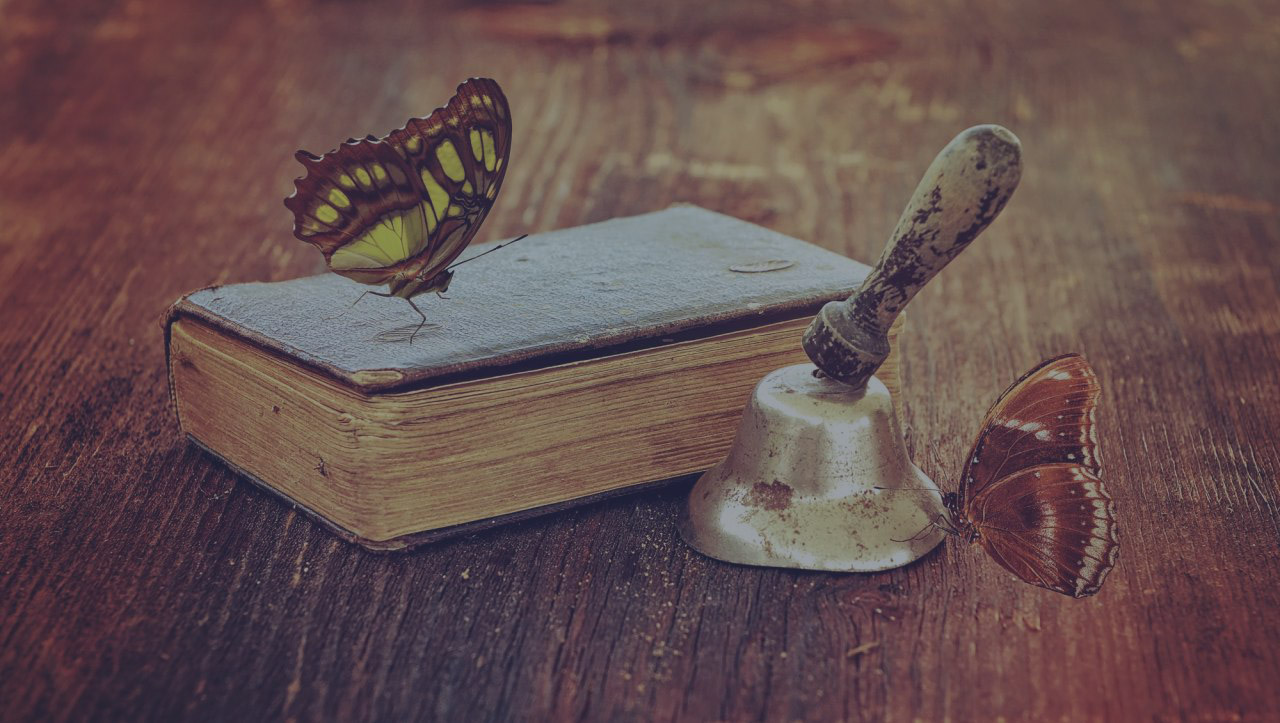
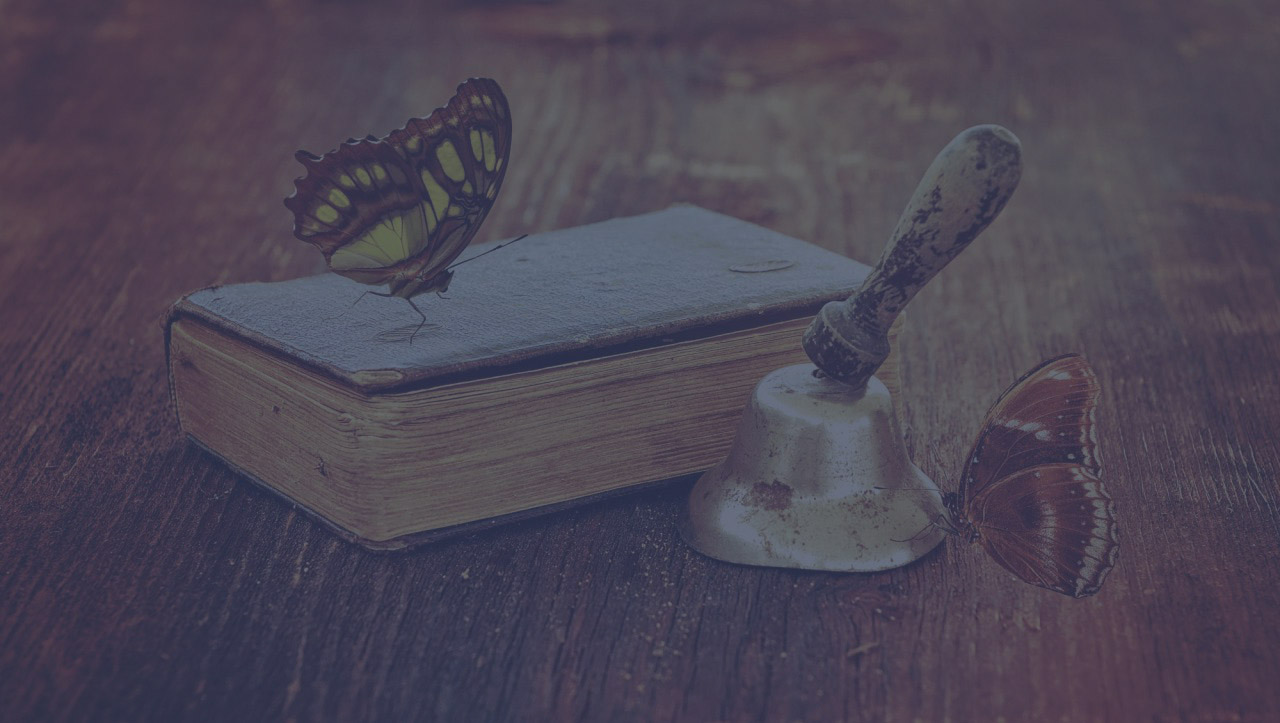
harj 7 27.11

diff --git a/css/harj7.css b/css/harj7.css
@@ -9,7 +9,7 @@ header {
     position: absolute;
     top: 0;
     background-color: #3A405A;
-    height: 80px;
+    height: 70px;
     width: 100%;
     z-index: 3;
 }
@@ -22,7 +22,7 @@ p {
 #hanki_har {
     padding-top: 40px;
     padding-left: 70px;
-    font-size: 55px;
+    font-size: 60px;
     color: white;
 }
 
@@ -30,7 +30,7 @@ p {
     padding-top: 20px;
     padding-left: 70px;
     color: white;
-    font-size: 30px;
+    font-size: 28px;
     width: 1300px;
 }
 
@@ -52,7 +52,7 @@ p {
     height: 280px;
     width: 100%;
     background-color: #3A405A;
-    opacity: 60%;
+    opacity: 70%;
     z-index: 3;
     margin: 0;
 }
@@ -77,90 +77,110 @@ p {
 
 
 
+
+
 /*HERE WE GOOOOOOOOOOOOOOOOOOOOOO*/
+
+
+
+
+
 /* Links inside the navbar */
 .navbar a {
-    float: left;
-    font-size: 16px;
+    float: right;
+    font-size: 20px;
     color: white;
     text-align: center;
-    padding: 14px 16px;
+    padding: 25px 16px;
     text-decoration: none;
-  }
-  
-  /* The dropdown container */
-  .dropdown {
-    float: left;
+}
+
+/* The dropdown container */
+.dropdown {
+    float: right;
     overflow: hidden;
-  }
-  
-  /* Dropdown button */
-  .dropdown .dropbtn {
-    font-size: 16px;
+}
+
+/* Dropdown button */
+.dropdown .dropbtn {
+    float: right;
     border: none;
     outline: none;
     color: white;
-    padding: 14px 16px;
+    padding: 25px 16px;
     background-color: inherit;
     font: inherit; /* Important for vertical align on mobile phones */
     margin: 0; /* Important for vertical align on mobile phones */
-  }
-  
-  /* Add a red background color to navbar links on hover */
-  .navbar a:hover, .dropdown:hover .dropbtn {
-    background-color: red;
-  }
-  
-  /* Dropdown content (hidden by default) */
-  .dropdown-content {
+}
+
+#dropbutt {
+    font-size: 20px;
+}
+
+/* Add a underline to navbar links on hover */
+.navbar a:hover, .dropdown:hover .dropbtn {
+    text-decoration: underline;
+}
+
+/* Dropdown content (hidden by default) */
+.dropdown-content {
+    margin-top: 70px;
     display: none;
-    position: absolute;
-    background-color: #f9f9f9;
-    width: 100%;
+    position: relative;
+    background-color: #3A405A;
+    width: 500px;
+    height: 300px;
     left: 0;
     box-shadow: 0px 8px 16px 0px rgba(0,0,0,0.2);
     z-index: 1;
-  }
-  
-  /* Mega Menu header, if needed */
-  .dropdown-content .header {
-    background: red;
-    padding: 16px;
-    color: white;
-  }
-  
-  /* Show the dropdown menu on hover */
-  .dropdown:hover .dropdown-content {
+}
+
+/* Show the dropdown menu on hover */
+.dropdown:hover .dropdown-content {
     display: block;
-  }
-  
-  /* Create three equal columns that floats next to each other */
-  .column {
-    float: left;
-    width: 33.33%;
+}
+
+/* Create three equal columns that floats next to each other */
+.column {
     padding: 10px;
-    background-color: #ccc;
-    height: 250px;
-  }
-  
-  /* Style links inside the columns */
-  .column a {
+    background-color: #3A405A;
+}
+
+/* Style links inside the columns */
+.column a {
+    margin: 5px;
     float: none;
-    color: black;
+    color: #f9dec9;
     padding: 16px;
     text-decoration: none;
     display: block;
     text-align: left;
-  }
-  
-  /* Add a background color on hover */
-  .column a:hover {
-    background-color: #ddd;
-  }
-  
-  /* Clear floats after the columns */
-  .row:after {
+}
+
+#frstcolumn {
+    padding: 5px;
+    float: left;
+    width: 150px;
+    display: block;
+    color: #f9dec9;
+}
+
+#scndcolumn {
+    padding: 5px;
+    float: right;
+    width: 150px;
+    display: block;
+    color: #f9dec9;
+}
+
+/* Add a background color on hover */
+.column a:hover {
+    text-decoration: underline;
+}
+
+/* Clear floats after the columns */
+.row:after {
     content: "";
     display: table;
     clear: both;
-  }
+}

diff --git a/harj7.html b/harj7.html
@@ -12,31 +12,22 @@
 
 <body>
     <header class="navbar">  
-        <a href="#home">Home</a>
-        <a href="#news">News</a>
+        <a href="#home">Yhteistiedot</a>
+        <a href="#news">Kirjaudu</a>
         <div class="dropdown">
-          <button class="dropbtn">Dropdown
+          <button class="dropbtn" id="dropbutt">Dropdown
             <i class="fa fa-caret-down"></i>
           </button>
           <div class="dropdown-content">
-            <div class="header">
-              <h2>Mega Menu</h2>
-            </div>
             <div class="row">
-              <div class="column">
+              <div class="column" id="frstcolumn">
                 <h3>Category 1</h3>
                 <a href="#">Link 1</a>
                 <a href="#">Link 2</a>
                 <a href="#">Link 3</a>
               </div>
-              <div class="column">
+              <div class="column" id="scndcolumn">
                 <h3>Category 2</h3>
-                <a href="#">Link 1</a>
-                <a href="#">Link 2</a>
-                <a href="#">Link 3</a>
-              </div>
-              <div class="column">
-                <h3>Category 3</h3>
                 <a href="#">Link 1</a>
                 <a href="#">Link 2</a>
                 <a href="#">Link 3</a>
@@ -66,7 +57,7 @@
 
 
 
-    <section>hoefkbjfsdjkdsjkdfshoij</section>
+    <section>dsgisguihsdfius</section>
     <section></section>
     <section></section>
     <section></section>
